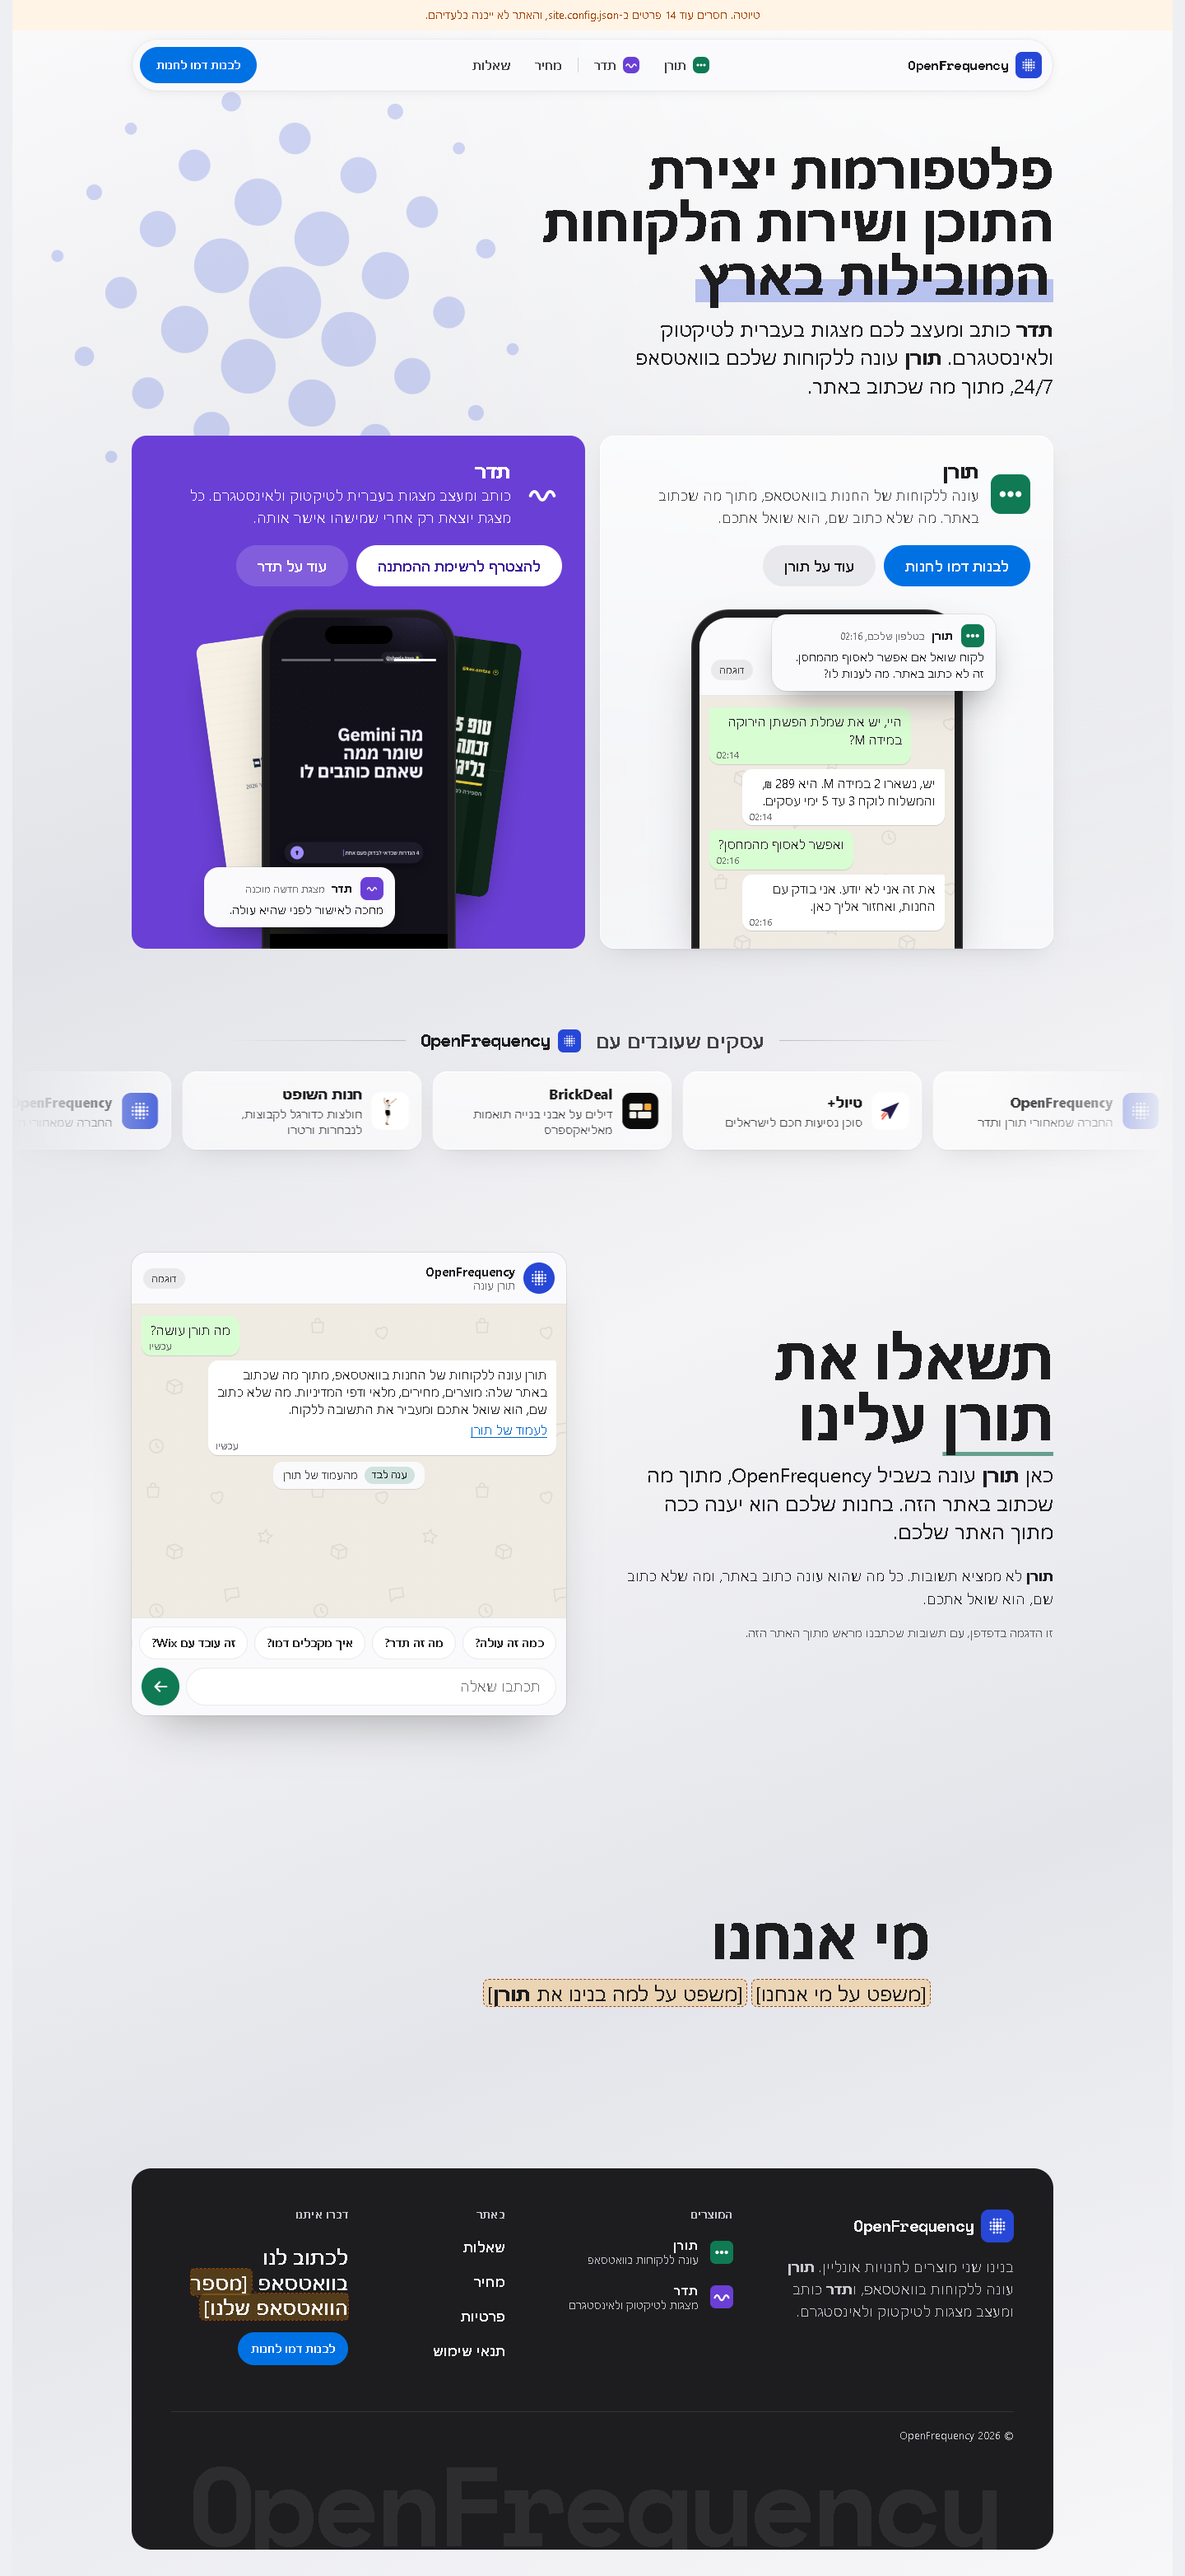
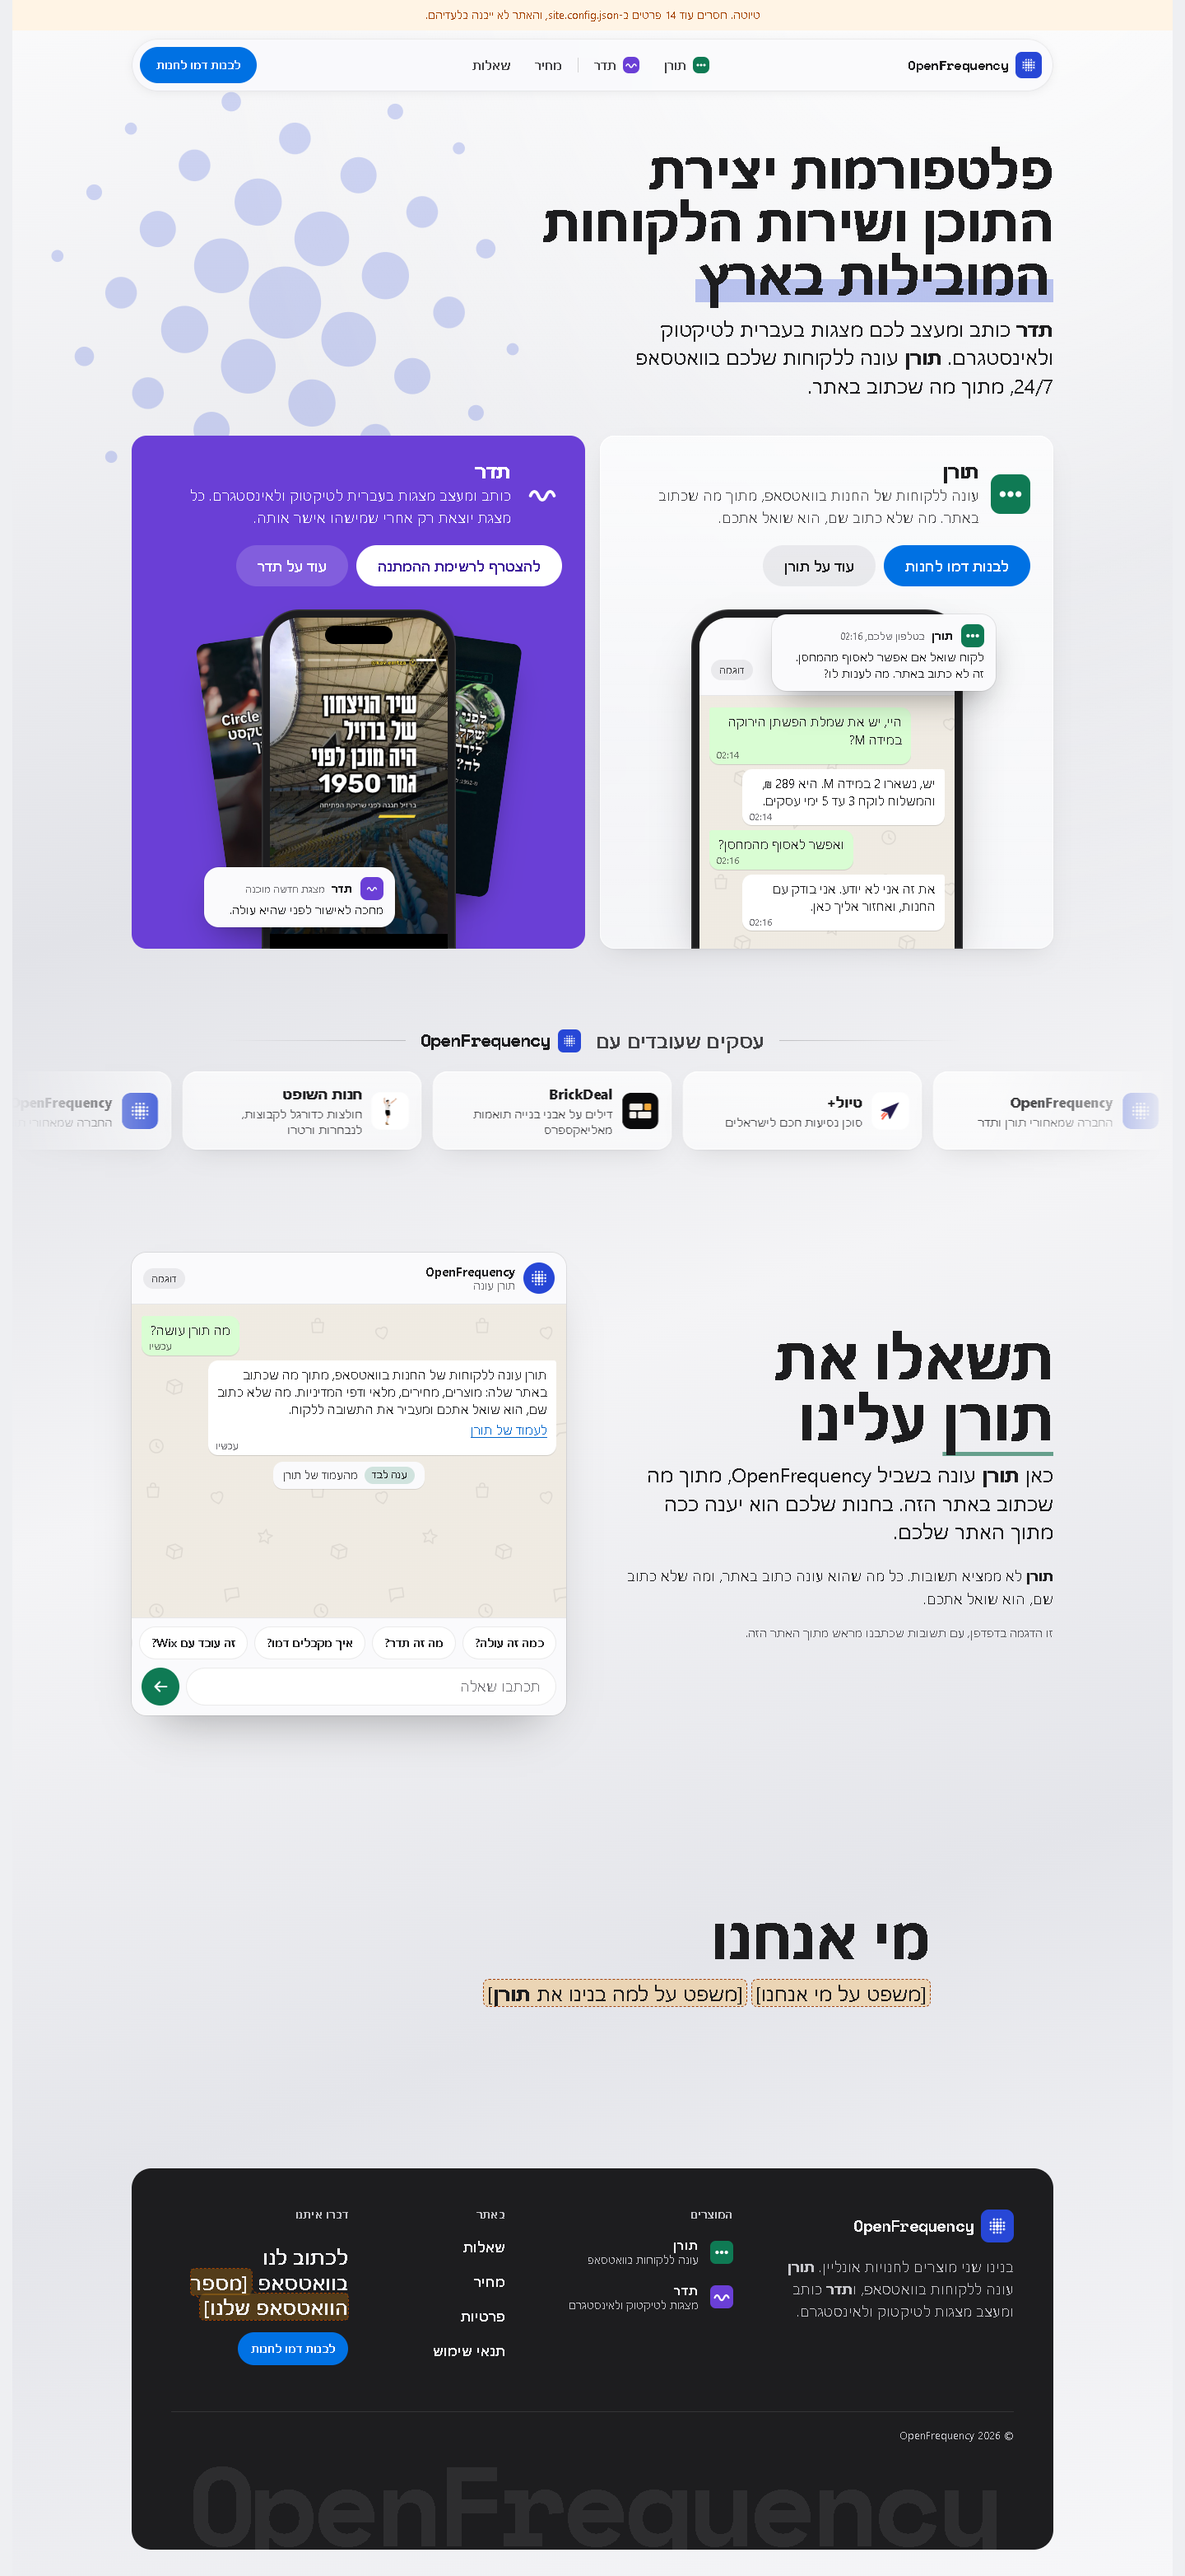
Teder is shown by four whole slideshows: one plays on the phone, and each is a swipeable feed post on /teder
Claude-Session: https://claude.ai/code/session_013ytyKksuwzF2xehLBuYDbT

Changed region(s): [[0.1562, 0.2171, 0.4375, 0.3721]]

diff --git a/src/style.css b/src/style.css
@@ -643,10 +643,42 @@ input:focus, textarea:focus { outline: none; border-color: var(--accent-fill); b
   .teder-field .wait { grid-template-columns: minmax(0, 1fr) auto; align-items: end; }
   .teder-field .reel-sit { align-self: end; height: 460px; }
 }
-/* The real slides, in a row that scrolls sideways and stops on each one. */
-.slides { display: flex; gap: 12px; max-width: calc(var(--max) + 2 * var(--gut)); margin: 0 auto; padding: 4px var(--gut) 14px; overflow-x: auto; scroll-snap-type: x mandatory; scroll-padding-inline: var(--gut); }
-.slides figure { flex: none; width: clamp(150px, 17vw, 210px); margin: 0; scroll-snap-align: start; }
-.slides img { display: block; width: 100%; height: auto; border-radius: 12px; box-shadow: 0 18px 36px -20px rgba(0, 0, 0, 0.45); }
+/* Whole slideshows, each as a post in an Instagram feed: the account on top, the slides one at a time in a 4:5 frame,
+   arrows on the frame and a dot for each slide under it. The frame scrolls sideways and stops on each slide, so a
+   finger swipes it; the arrows and the count come with the script. */
+.posts { display: grid; gap: 18px; grid-template-columns: repeat(auto-fill, minmax(min(100%, 262px), 1fr)); }
+.post { display: grid; gap: 10px; align-content: start; min-width: 0; padding: 12px 12px 14px; }
+.post-top { display: flex; align-items: center; gap: 9px; min-width: 0; padding-inline: 2px; }
+.post-face { display: grid; flex: none; place-items: center; width: 32px; height: 32px; border-radius: 50%; background: var(--teder); color: #fff; font: 700 15px/1 var(--text); box-shadow: 0 0 0 2px var(--tile-2), 0 0 0 3.5px var(--teder); }
+.post-top h3 { margin: 0; font: 700 15px/1.2 var(--text); letter-spacing: 0; white-space: nowrap; }
+.post-handle { overflow: hidden; color: var(--ink-3); font-size: 13px; white-space: nowrap; text-overflow: ellipsis; }
+.post-tag { flex: none; margin-inline-start: auto; padding: 3px 8px; border-radius: 99px; background: var(--fill); color: var(--ink-2); font-size: 12px; white-space: nowrap; }
+.post-frame { position: relative; overflow: hidden; border-radius: 12px; background: #111; box-shadow: 0 1px 0 var(--line), 0 18px 36px -22px rgba(0, 0, 0, 0.5); aspect-ratio: 4 / 5; }
+.post-slides { display: flex; height: 100%; margin: 0; padding: 0; overflow-x: auto; list-style: none; scroll-snap-type: x mandatory; overscroll-behavior-x: contain; scrollbar-width: none; }
+.post-slides::-webkit-scrollbar { display: none; }
+.post-slides:focus-visible { outline: 3px solid var(--teder); outline-offset: -3px; }
+.post-slides li { flex: 0 0 100%; scroll-snap-align: start; scroll-snap-stop: always; }
+.post-slides img { display: block; width: 100%; height: 100%; object-fit: cover; }
+.post-go { position: absolute; top: 50%; display: grid; place-items: center; width: 34px; height: 34px; padding: 0; border: 0; border-radius: 50%; background: rgba(255, 255, 255, 0.9); color: #1d1d1f; box-shadow: 0 4px 14px -4px rgba(0, 0, 0, 0.45); cursor: pointer; transform: translateY(-50%); transition: opacity 0.2s ease, transform 0.2s var(--ease-out); }
+.post-go svg { width: 18px; height: 18px; fill: none; stroke: currentColor; stroke-width: 2.4; stroke-linecap: round; stroke-linejoin: round; }
+.post-go.prev { inset-inline-start: 10px; }
+.post-go.next { inset-inline-end: 10px; }
+.post-go[hidden], .post-count[hidden] { display: none; }
+.post-go:disabled { opacity: 0; pointer-events: none; }
+.post-go:active { transform: translateY(-50%) scale(0.92); }
+.post-go:focus-visible { outline: 3px solid var(--teder); outline-offset: 2px; }
+@media (hover: hover) {
+  .post-go:not(:focus-visible) { opacity: 0; }
+  .post-frame:hover .post-go:not(:disabled) { opacity: 1; }
+}
+.post-count { position: absolute; top: 10px; inset-inline-end: 10px; padding: 3px 9px; border-radius: 99px; background: rgba(0, 0, 0, 0.55); color: #fff; font: 600 12px/1.4 var(--text); font-variant-numeric: tabular-nums; direction: ltr; }
+.post-dots { display: flex; justify-content: center; gap: 5px; }
+.post-dots i { width: 6px; height: 6px; border-radius: 50%; background: var(--line-2); transition: background-color 0.2s ease, transform 0.2s ease; }
+.post-dots i.on { background: var(--teder); transform: scale(1.15); }
+.post-topic { margin: 0; padding-inline: 2px; color: var(--ink); font-size: 15px; line-height: 1.4; }
+.post-credit { margin: -4px 0 0; padding-inline: 2px; color: var(--ink-3); font-size: 12px; }
+.post-credit a { color: inherit; }
+@media (prefers-color-scheme: dark) { .post-dots i.on { background: #a487ff; } }
 
 /* ------------------------------------------------------------ the price, very large */
 

diff --git a/src/site.js b/src/site.js
@@ -158,6 +158,33 @@
     if (!still) setInterval(function () { i = (i + 1) % imgs.length; show(); }, 3200);
   });
 
+  // Each slideshow on Teder's page steps a slide at a time with its arrows; the dots and the count follow the frame,
+  // however it was moved. In right-to-left the frame scrolls to negative positions, hence the sign.
+  each('[data-deck]', function (deck) {
+    var track = deck.querySelector('.post-slides'), n = track.children.length;
+    var prev = deck.querySelector('.prev'), next = deck.querySelector('.next'), count = deck.querySelector('.post-count');
+    var dots = deck.querySelectorAll('.post-dots i'), i = 0, want = null;
+    var sign = getComputedStyle(track).direction === 'rtl' ? -1 : 1;
+    var at = function () { return Math.round(Math.abs(track.scrollLeft) / track.clientWidth); };
+    var show = function () {
+      i = Math.min(n - 1, at());
+      if (i === want) want = null;
+      Array.prototype.forEach.call(dots, function (d, k) { d.classList.toggle('on', k === i); });
+      count.textContent = (i + 1) + '/' + n;
+      prev.disabled = i === 0;
+      next.disabled = i === n - 1;
+    };
+    // A second click while the frame is still moving counts from where the first one is headed.
+    var go = function (k) { want = Math.max(0, Math.min(n - 1, k)); track.scrollTo({ left: sign * want * track.clientWidth, behavior: still ? 'auto' : 'smooth' }); };
+    var from = function () { return want === null ? i : want; };
+    prev.addEventListener('click', function () { go(from() - 1); });
+    next.addEventListener('click', function () { go(from() + 1); });
+    track.addEventListener('scroll', show, { passive: true });
+    track.addEventListener('scrollend', function () { want = null; show(); });
+    prev.hidden = next.hidden = count.hidden = false;
+    show();
+  });
+
   // On a phone, the way to a demo stays at the bottom of the screen once the first screen is behind, and steps aside
   // while a form or the footer is in view.
   var dock = d.querySelector('[data-dock]');

diff --git a/DESIGN.md b/DESIGN.md
@@ -152,7 +152,7 @@ components:
 
 The site lives inside the Teder owner-site world, pinned by the owner's brief: a silver wallpaper with no hue of its own, frosted glass with a lit edge, the system typeface with Heebo behind it, pill buttons, and one action blue. Inside that world the page is quiet so the product can be loud. The colour, the detail and the motion belong to working fragments of Toran (marked `data-ui`): a WhatsApp chat with its own bubbles, greens and times; a settings card that changes state; a chat window where Toran answers questions about OpenFrequency itself. Everything around those fragments is silver surfaces of the same tone, five type sizes and generous space.
 
-Depth is rationed. Glass is reserved for what floats (the header capsule) and for the stages a product fragment stands on. Every other surface is a tile one tone step off the wallpaper, with no line and no shadow. The one dark surface in the light theme is the footer panel; the one colour field is Teder's violet. The home page is the company's: a door to each product in its own material, Toran's chat on glass and Teder's real slides on its violet. Behind the home page's headline our own mark stands large, half see-through, pushed toward the left edge. There are no photographs.
+Depth is rationed. Glass is reserved for what floats (the header capsule) and for the stages a product fragment stands on. Every other surface is a tile one tone step off the wallpaper, with no line and no shadow. The one dark surface in the light theme is the footer panel; the one colour field is Teder's violet. The home page is the company's: a door to each product in its own material, Toran's chat on glass and Teder's real slides on its violet. Behind the home page's headline our own mark stands large, half see-through, pushed toward the left edge. There are no photographs of our own; the only ones are the covers inside Teder's slides.
 
 The page is Hebrew, right to left, phone first, and in light and dark from the same tokens. It honours Increase Contrast and Reduce Transparency by making the glass and tiles nearly solid, and Reduce Motion by showing everything in place.
 
@@ -279,7 +279,7 @@ Surfaces have one radius: 18px for tiles, glass stages, photo frames, chats, the
 - **Chat:** a WhatsApp conversation as one phone shows it, with a sheet header (avatar or mark, name, a "דוגמה" tag), the chat ground, and sent and received bubbles with a 3px tail corner and times. It plays in once on arrival: messages appear in order (opacity plus 8px rise, 350–450ms), and each reply is preceded by Toran's three typing dots. Every chat is invented and says so.
 - **Held stage:** "how it goes." Three statements scroll past a sticky glass stage whose UI card changes state. The statement in view goes to ink and the others to quiet. States cross-fade with a 16px rise over 350–500ms. Without script or with reduced motion, each state sits under its statement.
 - **Question box:** a chat window beside its heading: the made-up store's header, the doodled ground, a row of questions to tap and an input bar with a round send button in Toran's green. A question goes in as the customer's message, the answer follows Toran's typing dots, and a centred system line under it says "answered alone" (with the page it came from) or "passed to you" (with why). The window keeps the last few exchanges.
-- **Phone:** a dark frame with 46px top corners, an island, and the screen inside, cut off by the bottom edge of its door. Toran's door holds the sample chat; Teder's plays three slides like stories, a bar filling across the top of each over 3.2s, with two more slides fanned behind it.
+- **Phone:** a dark frame with 46px top corners, an island, and the screen inside, cut off by the bottom edge of its door. Toran's door holds the sample chat; Teder's plays a whole slideshow (@kav.emtza's) like stories, a bar filling across the top of each slide over 3.2s, with the covers of two others fanned behind it.
 - **Pop:** a notification card that sticks out over a phone's edge, sheet-coloured with an 18px radius and a soft shadow: what reaches the owner. On Toran's phone it drops in after the chat has played (the question Toran couldn't answer); on Teder's it's the slide waiting for approval.
 - **Doodled ground:** every chat's ground carries a faint tile of line drawings (a bag, a heart, a star, a box, a bubble, a clock), as WhatsApp's does, at about 7% under the ground colour.
 - **Dock:** below 700px, on the home page and /toran, the demo button sits on a frosted bar at the bottom of the screen once the first screen is behind, and slides away while a form or the footer is in view.
@@ -291,7 +291,7 @@ Surfaces have one radius: 18px for tiles, glass stages, photo frames, chats, the
 - **Without motion:** content is visible by default, and reduced motion removes every transition and animation.
 
 ### Imagery
-Teder is shown by its own output: opening slides Teder made for our three accounts (@sheela.tova, @kav.emtza, @shekel.leshekel), resized from openfrequency-teder into assets/teder, played and fanned on the phone in the home page's Teder door and on /teder's first screen, and run as a sideways-scrolling row with scroll-snap on /teder, 12px corners.
+Teder is shown by its own output: four whole slideshows Teder made, three for our accounts (@sheela.tova, @kav.emtza, @shekel.leshekel) and one for a made-up account (@demo.atzitz, marked חשבון לדוגמה). `node scripts/showcase.mjs` brings them in from private/showcase, refuses any photo not under the Pexels or Unsplash licence, and writes assets/teder/showcase (TikTok 9:16 for the phone, Instagram 4:5 for the page) with showcase.json. On /teder each is a post as in an Instagram feed: a glass card with the account's initial in a violet ring, the slides one at a time in a 4:5 frame with 12px corners that scroll-snaps sideways, round white arrows that show on hover, a count chip, violet dots, the topic, and a credit for the cover's photographer. Four across on a wide screen, one on a phone.
 
 ## Do's and Don'ts
 

diff --git a/assets/teder/README.md b/assets/teder/README.md
@@ -1,10 +1,15 @@
 # Teder slides
 
-Opening slides (tiktok-01) that Teder rendered for our three accounts, resized to 540px wide from
-openfrequency-teder/private/data/dry-media/<account>/posts/<post>/tiktok-01.jpg on 2026-10-22:
+Whole slideshows Teder rendered, one per account, written here by `node scripts/showcase.mjs` from the handover in
+private/showcase/<pack>/<post>/ (2026-10-23):
 
-- sheela-tova-*: @sheela.tova (ai-tips)
-- kav-emtza-*: @kav.emtza (football)
-- shekel-leshekel-*: @shekel.leshekel (money)
+- ai-tips: @sheela.tova, ours
+- football: @kav.emtza, ours
+- money: @shekel.leshekel, ours
+- demo: @demo.atzitz, a made-up account that shows what Teder does (openfrequency-teder, examples/packs/demo)
 
-Our own output; no third-party credit applies.
+Each pack has `ig-NN.jpg` (Instagram, 640x800) and `tt-NN.jpg` (TikTok, 540x960). `showcase.json` holds each
+account, topic, the text of every slide (the alt text) and who took the cover photo.
+
+The slides are our own output. Each cover photo is from Pexels under the Pexels License, which the script checks
+before it writes anything; the page credits the photographer anyway.

diff --git a/README.md b/README.md
@@ -75,7 +75,8 @@ em and en dashes, a colon in a heading, `!!`, gendered slashes, bureaucratic phr
 | `src/layout.mjs` | the head, the sticky glass header, the footer |
 | `src/style.css` | Teder's tokens (light, dark, Increase Contrast, Reduce Transparency) and the site's components |
 | `src/pages/` | one module per page: home, `/toran`, `/teder`, `/faq`, and where a form lands without JS |
-| `src/teder.mjs` | Teder's real slides and its phone, shared by the home page and `/teder` |
+| `src/teder.mjs` | Teder's real slideshows and its phone, shared by the home page and `/teder` |
+| `scripts/showcase.mjs` | Brings Teder's slideshows in from `private/showcase` into `assets/teder/showcase`, checking each photo's licence |
 | `assets/brand/` | the marks, copied from openfrequency-toran; never redrawn |
 | `assets/fonts/` | Heebo (OFL), self-hosted, so no visitor's address goes to Google |
 | `src/site.js` | the motion, and the question box (Toran answering about OpenFrequency) |
